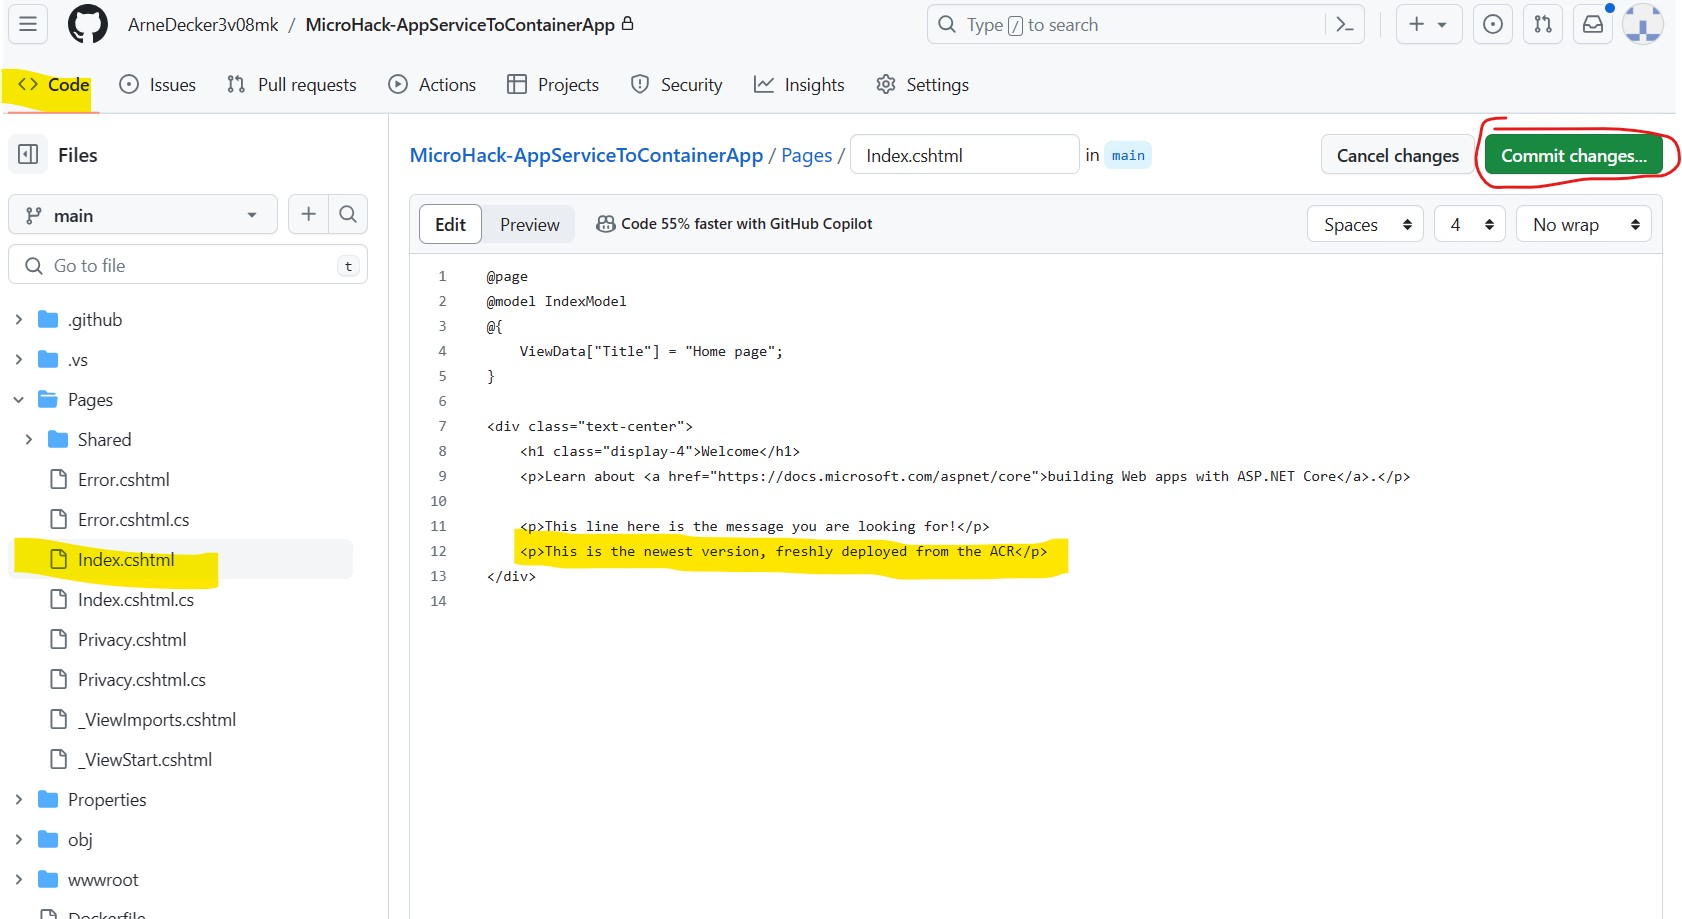
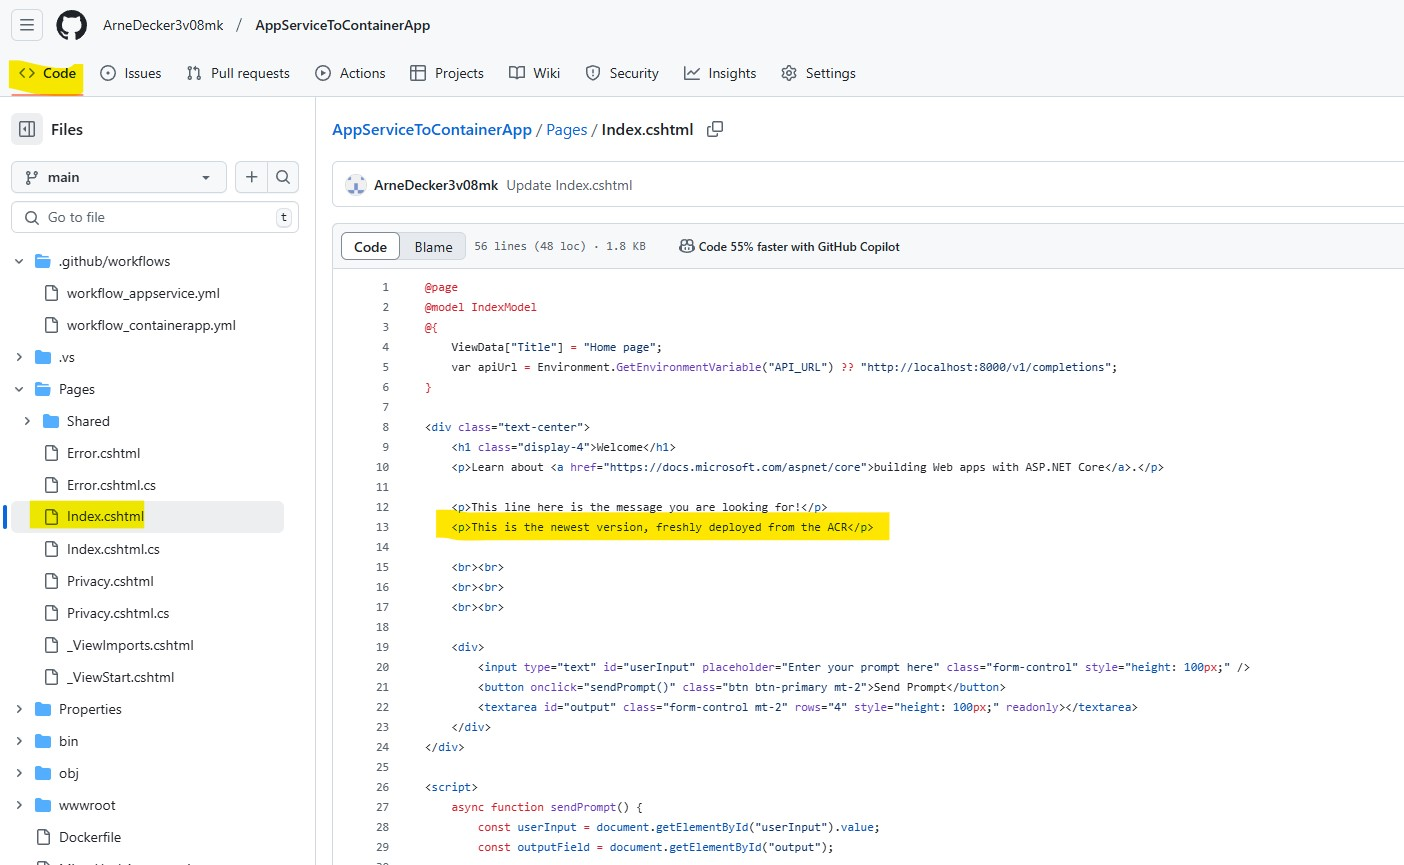
Added AI Challenge

diff --git a/03-Azure/01-01-App Innovation/01_AppServicetoContainerApps/walkthrough/challenge-5/solution.md b/03-Azure/01-01-App Innovation/01_AppServicetoContainerApps/walkthrough/challenge-5/solution.md
@@ -1,0 +1,64 @@
+# Walkthrough Challenge 5 - Host Your Own AI Models
+
+Duration: 60 minutes
+
+## Prerequisites
+
+Please make sure thet you successfully completed [Challenge 4](../challenge-4/solution.md) before continuing with this challenge.
+
+### **Task 1: Host the Ollama container image**
+
+The web interface is already prepared, you can check it in the *Index.cshtml* file in the *Pages/Shared* folder in the repository. It takes the input from the text field and then calls an API where the AI model is hosted. Let's begin with hosting the model.
+
+In the Azure Portalm, create a new Container App. You can call it `microhack-aiapp`. Make sure that the Container App Environment is the one you created in challenge 2 where the other app is already running.
+
+![image](./img/challenge-5-createapp-basics.jpg)
+
+In the *Container* tab, you need to choose `Docker Hub or other registries`. Docker Hub is a public container registry where all sorts of container images are publically available so you can directely deploy them (make sure you are allowed to regarding the license though). In this MicroHack we are going to use the open-source Llama models since they are free to use and efficient. You could also use OpenAI or other models of course. Luckily, there is a container image prepared on the Docker Hub already. We are going to use something from the `ollama` repository, namely the image `ollama` image with the tag `0.5.8-rc7` -> `ollama/ollama:0.5.8-rc7`. You can find details here: https://hub.docker.com/r/ollama/ollama/tags
+
+![image](./img/challenge-5-createapp-imagetag.jpg)
+
+Set the *CPU and memory* to `2 CPU cores, 4 Gi memory` to give the model some more resources. Lastly, the container image is configured to prevent CORS. You can change configurations by adding environment variables, add one named `OLLAMA_ORIGINS` and add a `*` as value to allow you calling the API from your *microhack-containerapp*.
+
+![image](./img/challenge-5-createapp-container.jpg)
+
+On the *Ingress* tab, enable the ingress and set it to `Accept traffic from anywhere`, set the *Target port* to `11434`.
+
+![image](./img/challenge-5-createapp-ingress.jpg)
+
+### **Task 2: Start the Llama 3.2 model**
+
+Now that the Container App is running, you still need to activate the llama 3.2 model. Open the Azure Shell: https://portal.azure.com/#cloudshell/
+
+You need to connect to the container to run commands inside the container itself. You can use that to modify the applications running in the container or to check logs. To connect to the container, you can use `az containerapp exec` command, rplace the name of the Container App or Resource Group with the ones you used, the command must be `/bin/sh` to run commands in the container:
+
+`az containerapp exec --name microhack-aiapp --resource-group MicroHack-AppServiceToContainerApp --command "/bin/sh"
+ollama run llama3.2`
+
+You should see *INFO: Connection to the container 'microhack-aiapp'...*
+
+After that, you can load and run the llama 3.2 model by running this command: `ollama run llama3.2`
+
+After the model is loaded, you can already chat with it:
+
+![image](./img/challenge-5-cli.jpg)
+
+The model is now up and running. Every time the container shuts down, you will need to re-run these commands. To prevent the app from shutting down, set the minimum number of replicas to 1 (as you did in challenge 4 with the other app).
+
+### **Task 3: Connect the Web App with the API**
+
+You will need the *Application Url* form the *microhack-aiapp*, copy it to the clipboard.
+
+![image](./img/challenge-5-aiappurl.jpg)
+
+Switch to the GitHub Actions workflow that deploys to the Container App. You only need to append a single line in the end. In the *Deploy to Container App* task, add this line:
+
+`environmentVariable: API_URL=<your-aipp-url>`
+
+You can run the workflow to deploy the new version. It will pickup the API URL and use that to connect to the *microhack-aiapp* to call the model. After it was successfully deployed, you should be able to send prompts from your web app (it might be a little slow, though).
+
+As you can see, you can easily host applications or AI models and let them work together. Container Apps allow you to focus on your applications and functionality, while infrastructure, networking, encryption etc. are configured automatically for you.
+
+You successfully completed challenge 5! 🚀🚀🚀
+
+ **[Home](../../Readme.md)**

diff --git a/03-Azure/01-01-App Innovation/01_AppServicetoContainerApps/Readme.md b/03-Azure/01-01-App Innovation/01_AppServicetoContainerApps/Readme.md
@@ -78,6 +78,9 @@ Have a look in the Git repository of the application and the App Service resourc
 * On which operating system (Windows or Linux) is the application currently running?
 * What message does the application state when you open in the browser?
 
+
+**!!!Important: You can ignore the text fields and the button for now, the functionality behind it will be added in the last challenge!!!**
+
 Read through the learning resources and answer the following questions:
 
 * What is containerization and what is a container?
@@ -122,7 +125,7 @@ Before the application can be deployed to a Container App, it needs to be contai
 
 * You have created the Azure Container Registry
 * You created a new GitHub Actions workflow
-* The workflow that pushes a deployable container image to the registry
+* You created a workflow that pushes a deployable container image to the registry
 
 ### Learning resources
 
@@ -205,6 +208,31 @@ Now that the app is up and running and you can deploy changes quickly, it is tim
 ### Solution - Spoilerwarning
 
 [Solution Steps](./walkthrough/challenge-4/solution.md)
+
+## Challenge 5 - Host Your Own AI Models
+
+### Goal
+
+Your production-ready Container App is still missing one thing, you cannot really use it for anything, yet. Time to host your own small AI model that you can chat with via the app.
+
+### Actions
+
+* Host an Ollama container image in a second Container App (or any other model)
+* Start an Ollama model in the Container App
+* Add the URL of the AI app to your main app via an environment variable
+
+### Success criteria
+
+* You can chat with an AI model via your app
+
+### Learning resources
+
+* [Ollama documentation](https://github.com/ollama/ollama)
+* [Ollama on Docker Hub](https://hub.docker.com/r/ollama/ollama)
+
+### Solution - Spoilerwarning
+
+[Solution Steps](./walkthrough/challenge-5/solution.md)
 
 ## Finish
 

diff --git a/03-Azure/01-01-App Innovation/01_AppServicetoContainerApps/walkthrough/challenge-4/solution.md b/03-Azure/01-01-App Innovation/01_AppServicetoContainerApps/walkthrough/challenge-4/solution.md
@@ -1,4 +1,4 @@
-# Walkthrough Challenge 4 - Assess VM´s for the migration
+# Walkthrough Challenge 4 - Make the Container App Production Ready
 
 Duration: 60 minutes
 
@@ -17,7 +17,7 @@ Select *Microsoft* as the ID provider:
 ![image](./img/challenge-4-authenticationselection.jpg)
 
 Select `Workforce` as tenant type.
-Select `Create new app registration`, name it something like "microhack-containerapp" and select `Current tenant - Single tenant` to create an App Registration in your Azure Entra ID tenant. Then mark the `Require authentication` to make sure only authenticated users can access the app. If the authentication fails, you can choose to which error page you want to redirect unauthenticated users. Leave the rest as is and hit *Add* to activate the authentication (this may take up to a minute in the background):
+Select `Create new app registration`, name it something like "microhack-containerapp" and select `Current tenant - Single tenant` to create an App Registration in your Azure Entra ID tenant. Set the *Client secret expiration* to 180 days. Then mark the `Require authentication` to make sure only authenticated users can access the app. If the authentication fails, you can choose to which error page you want to redirect unauthenticated users. Leave the rest as is and hit *Add* to activate the authentication (this may take up to a minute in the background):
 
 ![image](./img/challenge-4-authenticationsetup.jpg)
 

diff --git a/03-Azure/01-01-App Innovation/01_AppServicetoContainerApps/walkthrough/challenge-2/solution.md b/03-Azure/01-01-App Innovation/01_AppServicetoContainerApps/walkthrough/challenge-2/solution.md
@@ -107,11 +107,11 @@ Simply name it *Dockerfile* (without a file extension). This file will contain s
 
     #See https://aka.ms/containerfastmode to understand how Visual Studio uses this Dockerfile to build your images for faster debugging.
     
-    FROM mcr.microsoft.com/dotnet/aspnet:6.0 AS base
+    FROM mcr.microsoft.com/dotnet/aspnet:8.0 AS base
     WORKDIR /app
     EXPOSE 8080
     
-    FROM mcr.microsoft.com/dotnet/sdk:6.0 AS build
+    FROM mcr.microsoft.com/dotnet/sdk:8.0 AS build
     WORKDIR /src
     COPY ["MicroHackApp.csproj", "."]
     RUN dotnet restore "./MicroHackApp.csproj"

diff --git a/03-Azure/01-01-App Innovation/01_AppServicetoContainerApps/walkthrough/challenge-3/solution.md b/03-Azure/01-01-App Innovation/01_AppServicetoContainerApps/walkthrough/challenge-3/solution.md
@@ -82,7 +82,7 @@ Switch to the *Privileged administrator roles* tab and choose the `Contributor` 
 
 ![image](./img/challenge-3-identityassignment-role.jpg)
 
-On the *Members* tab, select `Managed Identity` and choose the identity you just created and complete the assignment.
+On the *Members* tab, select `Managed Identity` and choose the identity you just created and complete the assignment by clicking *Review + assign* and then *Assign*. You can leave all other tabs in default settings.
 
 ![image](./img/challenge-3-identityassignment-member.jpg)
 

diff --git a/03-Azure/01-01-App Innovation/01_AppServicetoContainerApps/walkthrough/challenge-1/solution.md b/03-Azure/01-01-App Innovation/01_AppServicetoContainerApps/walkthrough/challenge-1/solution.md
@@ -24,6 +24,8 @@ Duration: 30 minutes
     
     ![image](./img/challenge-1-url.jpg)
 
+    <p>Important: You can ignore the text fields and the button for now, the functionality behind it will be added in the last challenge. You can try it out of course, but nothing is going to happen (yet). You will probably see something like this: "Error: Failed to execute 'json' on 'Response': Unexpected end of JSON input"</p>
+
 ### **Read through the learning resources**
 
 
